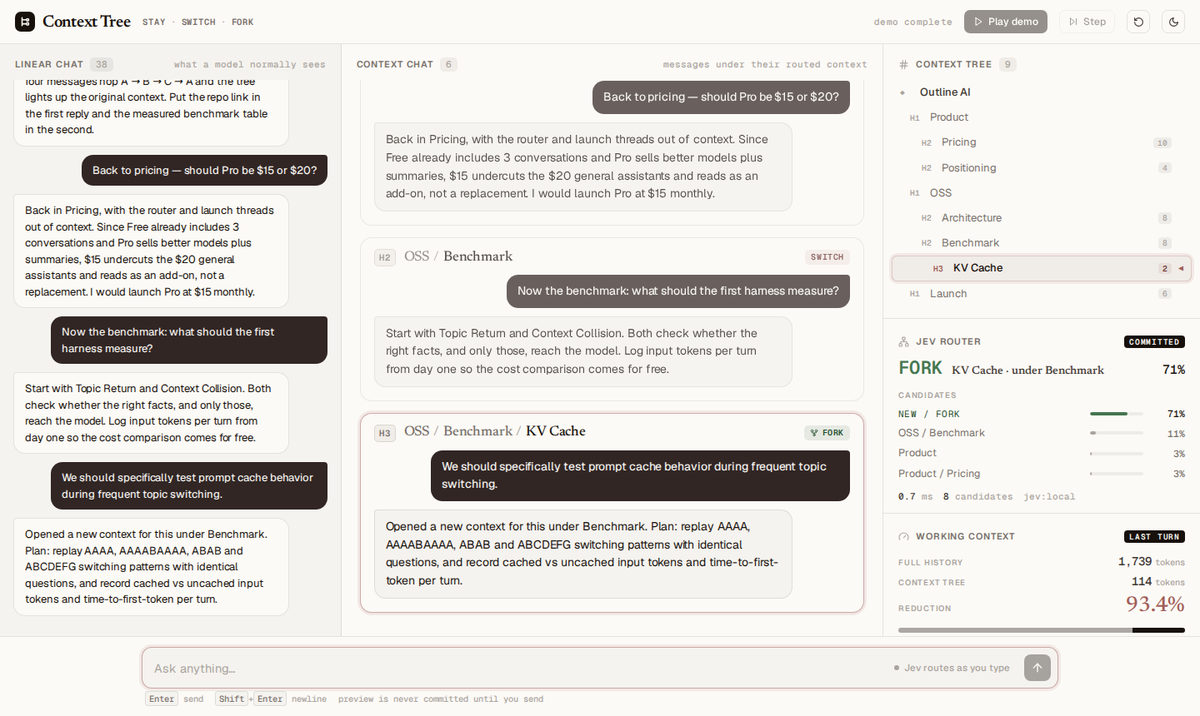
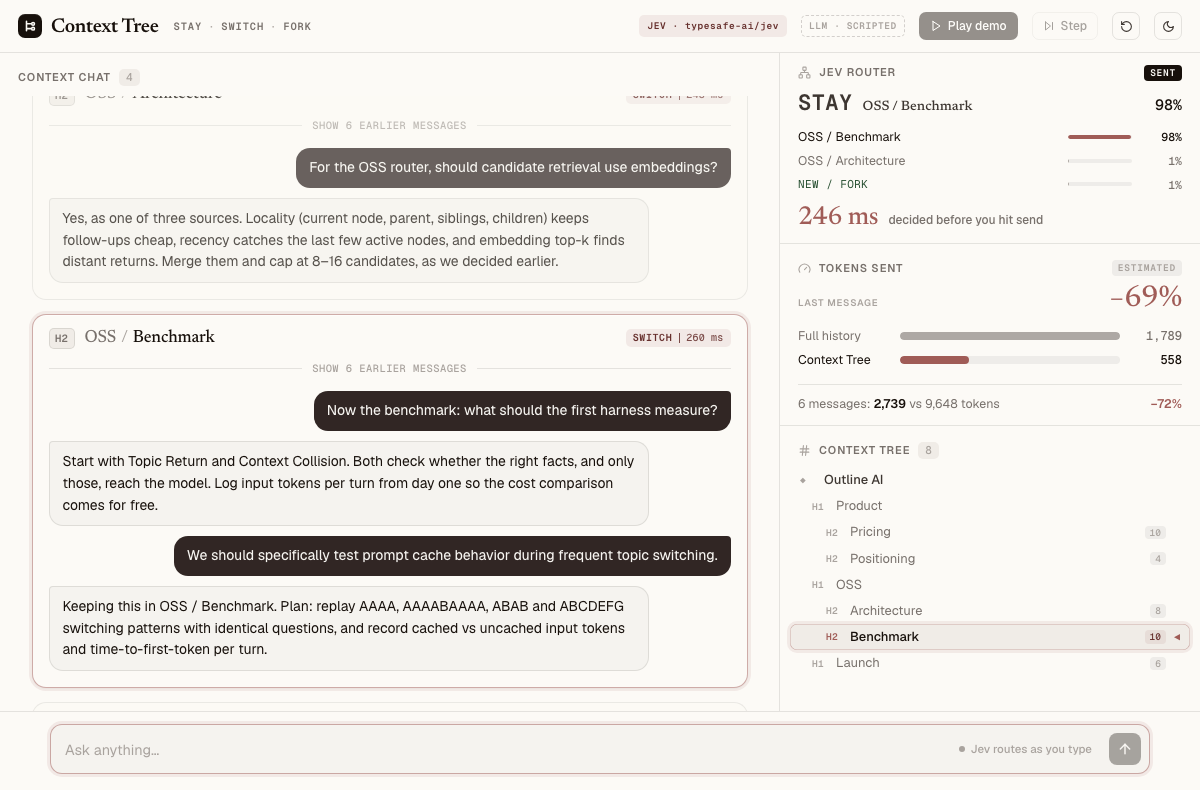
Re-record the demo GIF with real Jev and the new layout (#3)
- docs/assets/demo.gif and demo-final.png: recorded from ?demo=true with real typesafe-ai/jev routing (scripted replies), light theme, 1200x790, lossless CDP screencast frames. All six messages were decided before send (246-424 ms).
- Autoplay pauses before Enter until real Jev's preview of the whole message has landed (up to 4 s), since the rate-limit spacing can delay it.
- The headline latency is shown only for real Jev, not for the instant local guess.
- README alt text and caption describe the new layout; the recorded run does not fork.

diff --git a/apps/demo/src/engine.ts b/apps/demo/src/engine.ts
@@ -277,12 +277,20 @@ export function useContextTreeDemo(demoMode: boolean, liveInDemo = false) {
       if (!step) return false;
       const typed = await typeOut(step.message);
       if (!typed) return false;
-      await sleep(900); // let the preview land and be seen
+      // Pause like a person before Enter: real Jev's preview of the whole message may be
+      // waiting for a rate-limit slot, so give it up to 4 s to land, then let it be seen.
+      const t0 = Date.now();
+      while (remote && Date.now() - t0 < 4000) {
+        const shown = shownRef.current;
+        if (shown?.source === 'jev' && shown.text.trim() === step.message) break;
+        await sleep(100);
+      }
+      await sleep(900);
       if (!playingRef.current) return false;
       await send(step.message);
       return true;
     },
-    [send, typeOut],
+    [send, typeOut, remote],
   );
 
   const play = useCallback(

diff --git a/apps/demo/src/components.tsx b/apps/demo/src/components.tsx
@@ -354,7 +354,8 @@ function JevPanel({ tree, committed, preview }: { tree: ContextTree; committed: 
               </div>
             );
           })}
-          {decision.latencyMs != null && (
+          {/* The headline speed is Jev's; the instant local guess does not get one. */}
+          {decision.latencyMs != null && preview?.source !== 'guess' && (
             <div className="jev-speed">
               <span className="jev-speed-v">{fmtMs(decision.latencyMs)}</span>
               <span className="jev-speed-l">{beforeSend ? 'decided before you hit send' : 'to decide'}</span>

diff --git a/README.md b/README.md
@@ -6,9 +6,9 @@ Every message does one of three things:
 
 **STAY** · **SWITCH** · **FORK**
 
-![Context Tree demo: four messages hop Pricing → Architecture → Launch → Pricing, then a FORK creates KV Cache under Benchmark](docs/assets/demo.gif)
+![Context Tree demo: messages hop Pricing → Architecture → Launch → back to Pricing → Benchmark; real Jev routes each one before it is sent](docs/assets/demo.gif)
 
-<sub>Left: the linear chat a model normally sees. Middle: the same messages under the context Jev routed them to. Right: the tree, Jev's decision and scores, and the size of the working context. Run it yourself with `pnpm dev` and open `?demo=true`.</sub>
+<sub>Left: each message under the context Jev routed it to; returning to a topic continues its section. Right: real Jev's decision (`typesafe-ai/jev`, made while typing, before send), the estimated tokens sent against the full history, and the tree. Replies are scripted. Run it yourself with `pnpm dev` and open `?demo=true`, or add `&live=true` for live Claude replies.</sub>
 
 ## How it works
 
